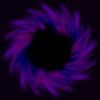
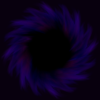
added blackholes

diff --git a/Engine/World.cpp b/Engine/World.cpp
@@ -7,7 +7,9 @@ World::World()
 	mineM(explosion, mine, animExplosion),
 	eBoostM(eBoostSound, eBoostHeart),
 	obstacleM(obstacleSurface),
-	shipRekt(L"shiprekt\\", 16)
+	shipRekt(L"shiprekt\\", 16),
+	bHoleAnim(L"blackhole\\", 40),
+	blackholeM(bHoleAnim)
 {
 	std::mt19937 rng;
 	std::uniform_real_distribution<float> xDist(0.0f, 790.0f);
@@ -48,6 +50,7 @@ void World::Update(Keyboard& Kbd, float Dt)
 		ship.Update(Kbd, Dt);
 		bulletM.UpdateBullets(Dt);
 		UpdateStars(Dt);
+		blackholeM.Update(Dt);
 		mineM.Update(Dt);
 		eBoostM.Update(ship, Dt);
 		shieldM.Update(ship, Dt, shieldon, shieldoff);
@@ -80,6 +83,7 @@ void World::Draw(Graphics& Gfx)
 		title.Draw(Gfx);
 		break;
 	case PlayState:
+		blackholeM.Draw(Gfx);
 		DrawStars(Gfx);
 		eBoostM.Draw(Gfx, ship);
 		shieldM.Draw(Gfx);

diff --git a/Engine/BlackHoleManager.cpp b/Engine/BlackHoleManager.cpp
@@ -1,0 +1,35 @@
+#include "BlackHoleManager.h"
+
+BlackHoleManager::BlackHoleManager(AnimationFrames & bHoleAnim)
+{
+	std::mt19937 rng;
+	std::uniform_real_distribution<float> xDist(0.0f, 750.0f);
+	for (int i = 0; i < nHolesMax; ++i)
+		bHole.emplace_back<BlackHole>(BlackHole{ xDist(rng), bHoleAnim });
+}
+
+void BlackHoleManager::Update(float dt)
+{
+	if (nHoles != nHolesMax)
+	{
+		holeCounter++;
+		if (holeCounter == newHole)
+		{
+			holeCounter = 0;
+			nHoles++;
+		}
+	}
+	
+	for (int i = 0; i < nHoles; ++i)
+	{
+		bHole[i].Update(dt);
+	}
+}
+
+void BlackHoleManager::Draw(Graphics& gfx)
+{
+	for (int i = 0; i < nHoles; ++i)
+	{
+		bHole[i].Draw(gfx);
+	}
+}

diff --git a/Engine/BlackHoleManager.h b/Engine/BlackHoleManager.h
@@ -1,0 +1,21 @@
+#pragma once
+
+#include "blackhole.h"
+#include <vector>
+#include <random>
+
+class BlackHoleManager
+{
+public:
+	BlackHoleManager(AnimationFrames& bHoleAnim);
+	void Reset();
+	void Update(float dt);
+	void Draw(Graphics& gfx);
+
+private:
+	static constexpr int nHolesMax = 15;
+	int nHoles = 0;
+	int holeCounter = 0;
+	static constexpr int newHole = 100;
+	std::vector<BlackHole> bHole;
+};

diff --git a/Engine/World.h b/Engine/World.h
@@ -14,6 +14,7 @@
 #include "Star.h"
 #include "TitleScreen.h"
 #include "ObstacleManager.h"
+#include "BlackHoleManager.h"
 
 class World
 {
@@ -67,6 +68,9 @@ private:
 
 	Surface gameOverSurface = Surface::FromFile(L"gameover.png");
 	Sound gameOverSong = L"64.wav";
+
+	AnimationFrames bHoleAnim;
+	BlackHoleManager blackholeM;
 
 	static constexpr int nStars = 100;
 	Star star[nStars];

diff --git a/Engine/BlackHole.cpp b/Engine/BlackHole.cpp
@@ -1,0 +1,22 @@
+#include "BlackHole.h"
+
+BlackHole::BlackHole(float X, AnimationFrames & bHoleAnim)
+	:
+	x(X),
+	bHoleSpin(bHoleAnim, 5)
+{}
+
+void BlackHole::Update(float dt)
+{
+	y += vy * dt;
+	bHoleSpin.Advance();
+	if (bHoleSpin.AnimEnd())
+	{
+		bHoleSpin.Reset();
+	}
+}
+
+void BlackHole::Draw(Graphics& gfx)
+{
+	bHoleSpin.Draw(int(x), int(y), gfx);
+}

diff --git a/Engine/BlackHole.h b/Engine/BlackHole.h
@@ -1,0 +1,19 @@
+#pragma once
+#include "RectF.h"
+#include "Animation.h"
+
+
+class BlackHole
+{
+public:
+	BlackHole(float X, AnimationFrames& bHoleAnim);
+	void Reset();
+	void Update(float dt);
+	void Draw(Graphics& gfx);
+
+private:
+	float x;
+	float y = -50.0f;
+	static constexpr float vy = 80.0f;
+	Animation bHoleSpin;
+};
